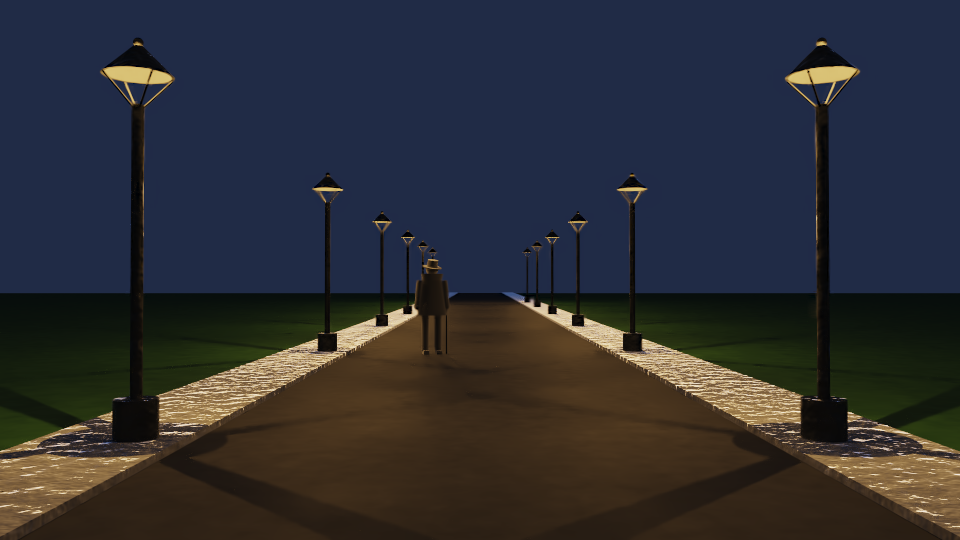
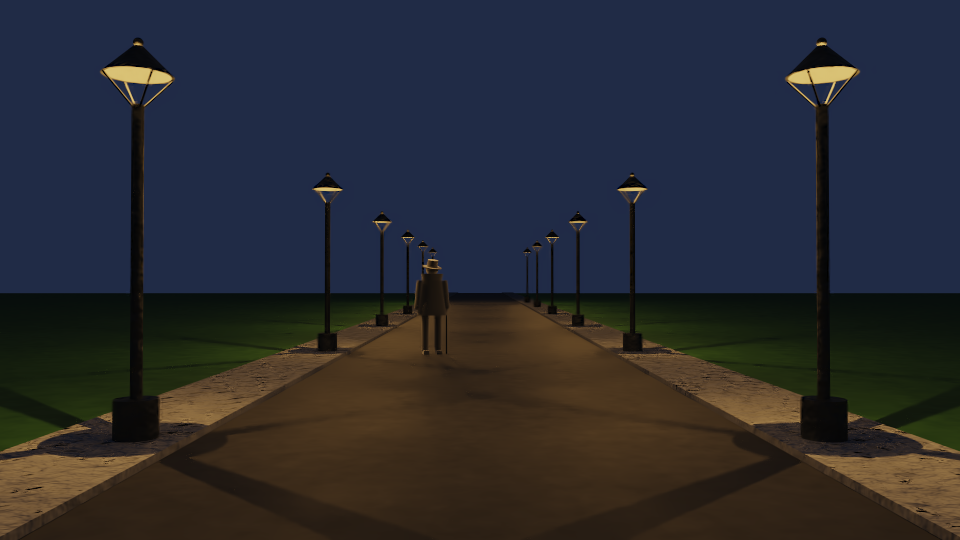
fix(shading): energy-conserving bump/normal mapping at grazing incidence
A perturbed shading normal evaluated against a clamped cosine lets a flat
surface fabricate radiance at grazing incidence (up-tilts add energy, the
down-tilts that should self-shadow clamp to zero), washing asphalt/grass toward
white along the recession.

- Add Conty-Kulla shadow-terminator factor (MathUtils.ShadowTerminatorTerm),
  applied in ComputeDirectLighting on both the light and view directions. It is
  energy-conserving (only removes fabricated energy), deterministic (no extra
  RNG, preserves the capture bit-identical invariant) and the identity where the
  normal is unperturbed (map-free scenes unchanged).
- Capture the unperturbed world-space normal as HitRecord.ShadingNg before the
  normal/bump/autobump passes; it is the geometric reference for the factor.
- Bound the bump perturbation tilt in BumpMapTexture so a high-frequency height
  field cannot drive the normal onto the tangent plane (aliased glitter).
- Add BumpTerminatorRegressionTests; full suite green (590).

https://claude.ai/code/session_01PyNndFcW9ALDMua3vctynV

diff --git a/src/RayTracer.Tests/BumpTerminatorRegressionTests.cs b/src/RayTracer.Tests/BumpTerminatorRegressionTests.cs
@@ -1,0 +1,190 @@
+using System.Numerics;
+using RayTracer.Core;
+using RayTracer.Core.Sampling;
+using RayTracer.Geometry;
+using RayTracer.Lights;
+using RayTracer.Materials;
+using RayTracer.Rendering;
+using RayTracer.Textures;
+using Xunit;
+
+namespace RayTracer.Tests;
+
+/// <summary>
+/// Guard-rail tests for shading-normal energy conservation under bump/normal
+/// mapping.
+///
+/// A perturbed shading normal evaluated against a clamped cosine lets a flat
+/// surface fabricate radiance at grazing incidence — the bump's up-tilts add
+/// energy while the down-tilts that should occlude get clamped to zero, so the
+/// surface washes toward white where it should stay dark. The renderer cures
+/// this with a Conty-Kulla shadow-terminator factor applied on both the light
+/// and view directions, and the bump generator bounds the perturbation tilt.
+///
+/// These tests pin down both mechanisms: a grazing render of a strongly bumped
+/// flat plane must not exceed the un-bumped baseline (the factor only removes
+/// fabricated energy, it never adds), the terminator factor obeys its limits,
+/// and the bump tilt stays within the clamp.
+/// </summary>
+public class BumpTerminatorRegressionTests
+{
+    private const int Width  = 48;
+    private const int Height = 48;
+    private const int Spp    = 16;
+
+    /// <summary>
+    /// A flat plane viewed almost edge-on under a bright overhead light. With a
+    /// strong procedural bump the mean radiance must stay at or below the
+    /// un-bumped baseline — the shadow-terminator factor culls the energy a
+    /// perturbed normal would otherwise fabricate at grazing incidence.
+    /// </summary>
+    [Fact]
+    public void GrazingBump_DoesNotFabricateEnergy()
+    {
+        float bumped   = RenderGrazingPlaneMeanLuminance(withBump: true);
+        float baseline = RenderGrazingPlaneMeanLuminance(withBump: false);
+
+        // The plane must still render (not collapse to black).
+        Assert.True(baseline > 0.01f,
+            $"Baseline plane rendered nearly black (mean {baseline:F4}); the setup is degenerate.");
+
+        // The bump may only redistribute / remove energy at grazing, never add
+        // it. A small numerical margin absorbs sampler noise. The pre-fix code
+        // would blow the bumped mean to several times the baseline here.
+        Assert.True(bumped <= baseline * 1.25f,
+            $"Bumped grazing mean luminance {bumped:F4} exceeds baseline {baseline:F4} × 1.25. " +
+            $"A perturbed shading normal is fabricating energy at grazing incidence — " +
+            $"the shadow-terminator softening may have regressed.");
+    }
+
+    private static float RenderGrazingPlaneMeanLuminance(bool withBump)
+    {
+        var disney = new DisneyBsdf(
+            baseColor: new SolidColor(new Vector3(0.06f, 0.06f, 0.06f)),
+            roughness: new FloatTexture(0.8f),
+            specular:  new FloatTexture(0.5f),
+            specTrans: new FloatTexture(0f),
+            ior:       new FloatTexture(1.5f),
+            clearcoat: new FloatTexture(0f));
+
+        if (withBump)
+        {
+            // High-frequency Perlin field → steep, rapidly varying micro-relief,
+            // the case that fabricated energy at grazing before the fix.
+            disney.BumpMap = new BumpMapTexture(new NoiseTexture(30f), strength: 6f);
+        }
+
+        var plane = new InfinitePlane(
+            new Vector3(0f, 0f, 0f),
+            new Vector3(0f, 1f, 0f),
+            disney);
+        var world = new HittableList(new[] { (IHittable)plane });
+
+        // Bright overhead light, well above the geometric horizon.
+        var light = new PointLight(new Vector3(0f, 2.5f, -8f), Vector3.One, 40f);
+        var lights = new System.Collections.Generic.List<ILight> { light };
+
+        // Camera near the plane height, looking down its length → grazing view.
+        var camera = new RayTracer.Camera.Camera(
+            lookFrom:    new Vector3(0f, 0.35f, 6f),
+            lookAt:      new Vector3(0f, 0.05f, -40f),
+            vUp:         Vector3.UnitY,
+            vFovDeg:     45f,
+            aspectRatio: (float)Width / Height,
+            aperture:    0f,
+            focusDist:   1f);
+
+        Sampler.SetKind(SamplerKind.Prng);
+
+        var renderer = new Renderer(
+            world:           world,
+            camera:          camera,
+            lights:          lights,
+            sky:             new SkySettings(Vector3.Zero),
+            samplesPerPixel: Spp,
+            maxDepth:        4,
+            verbose:         false);
+
+        var pixels = renderer.Render(Width, Height);
+
+        // Average over the lower half of the frame, where the grazing plane is.
+        float sum = 0f; int n = 0;
+        for (int y = Height / 2; y < Height; y++)
+            for (int x = 0; x < Width; x++)
+            {
+                sum += MathUtils.Luminance(pixels[y, x]);
+                n++;
+            }
+        return sum / n;
+    }
+
+    /// <summary>
+    /// The shadow-terminator factor is identity when the shading normal is
+    /// unperturbed — so shading is untouched wherever no map is present.
+    /// </summary>
+    [Fact]
+    public void ShadowTerminator_Unperturbed_IsIdentity()
+    {
+        var n = Vector3.Normalize(new Vector3(0.1f, 1f, 0.2f));
+        var w = Vector3.Normalize(new Vector3(-0.3f, 0.8f, 0.4f));
+        Assert.Equal(1f, MathUtils.ShadowTerminatorTerm(n, n, w), 6);
+    }
+
+    /// <summary>
+    /// A direction below the geometric horizon contributes nothing, even if the
+    /// perturbed normal still faces it.
+    /// </summary>
+    [Fact]
+    public void ShadowTerminator_BelowGeometricHorizon_IsZero()
+    {
+        var ng = Vector3.UnitY;                                  // flat surface
+        var ns = Vector3.Normalize(new Vector3(0.9f, 0.4f, 0f)); // tilted hard sideways
+        var w  = Vector3.Normalize(new Vector3(0.9f, -0.1f, 0f));// just under the horizon
+        Assert.Equal(0f, MathUtils.ShadowTerminatorTerm(ng, ns, w));
+    }
+
+    /// <summary>
+    /// When the perturbed normal faces a grazing direction more than the
+    /// geometry allows, the factor is in (0, 1): the fabricated portion is
+    /// removed but legitimate light is preserved.
+    /// </summary>
+    [Fact]
+    public void ShadowTerminator_GrazingPerturbation_PartiallyCulls()
+    {
+        var ng = Vector3.UnitY;
+        var ns = Vector3.Normalize(new Vector3(0.5f, 0.86f, 0f)); // tilted toward +X
+        var w  = Vector3.Normalize(new Vector3(0.95f, 0.1f, 0f)); // near-grazing on +X
+        float g = MathUtils.ShadowTerminatorTerm(ng, ns, w);
+        Assert.True(g > 0f && g < 1f, $"Expected partial culling in (0,1), got {g}.");
+    }
+
+    /// <summary>
+    /// The bump generator bounds the perturbation tilt: an arbitrarily steep
+    /// height gradient cannot drive the tangent-space normal past the clamp.
+    /// </summary>
+    [Fact]
+    public void BumpMap_TiltIsBounded_UnderExtremeGradient()
+    {
+        // Ramp height field with a huge slope along +X (luminance = 1000·x).
+        var bump = new BumpMapTexture(new RampTexture(1000f), strength: 1f);
+
+        Vector3 nTs = bump.SampleTangentNormal(
+            u: 0f, v: 0f, p: Vector3.Zero,
+            tangent: Vector3.UnitX, bitangent: Vector3.UnitY, seed: 0);
+
+        Assert.True(nTs.Z > 0f, "Tangent-space normal must stay in the upper hemisphere.");
+        float slope = MathF.Sqrt(nTs.X * nTs.X + nTs.Y * nTs.Y) / nTs.Z; // = tan(tilt)
+        // MaxSlope inside BumpMapTexture is 6 (~80.5°); allow a tiny epsilon.
+        Assert.True(slope <= 6f + 1e-3f,
+            $"Bump tilt tan {slope:F3} exceeds the clamp (6). The tilt bound may have regressed.");
+    }
+
+    /// <summary>Grayscale ramp: luminance = <c>k · p.X</c>, an unbounded gradient.</summary>
+    private sealed class RampTexture : ITexture
+    {
+        private readonly float _k;
+        public RampTexture(float k) => _k = k;
+        public Vector3 Value(float u, float v, Vector3 p, int objectSeed)
+            => new Vector3(_k * p.X);
+    }
+}

diff --git a/src/RayTracer/Core/MathUtils.cs b/src/RayTracer/Core/MathUtils.cs
@@ -29,6 +29,38 @@ public static class MathUtils
     public static float RadiansToDegrees(float radians) => radians * 180f / Pi;
 
     /// <summary>
+    /// Shadow-terminator softening factor for perturbed shading normals
+    /// (Conty &amp; Kulla 2019). When a normal/bump map tilts the shading normal
+    /// <paramref name="ns"/> away from the geometric normal <paramref name="ng"/>,
+    /// a direction <paramref name="w"/> can sit above the shading horizon while
+    /// already below the geometric one, letting the clamped cosine fabricate
+    /// energy — surfaces wash out at grazing incidence. This returns a scalar in
+    /// [0, 1] that fades the contribution to zero across that band with a smooth
+    /// cubic, leaving it untouched when <paramref name="w"/> is well inside both
+    /// hemispheres. Identity (1) when the shading normal is unperturbed, so
+    /// shading is unaffected wherever no map is present. Deterministic and
+    /// allocation-free.
+    /// </summary>
+    public static float ShadowTerminatorTerm(Vector3 ng, Vector3 ns, Vector3 w)
+    {
+        float ngDotW = Vector3.Dot(ng, w);
+        if (ngDotW <= 0f) return 0f;            // below the true surface horizon
+
+        float nsDotW = Vector3.Dot(ns, w);
+        if (nsDotW <= 0f) return 0f;            // below the shading horizon (already culled)
+
+        float ngDotNs = Vector3.Dot(ng, ns);
+        if (ngDotNs >= 0.9999f) return 1f;      // unperturbed → no correction
+
+        float g = ngDotW / (nsDotW * MathF.Max(ngDotNs, 1e-4f));
+        if (g >= 1f) return 1f;
+        if (g <= 0f) return 0f;
+
+        float g2 = g * g;
+        return (-g2 * g) + g2 + g;              // smooth cubic ramp, zero-slope at g=1
+    }
+
+    /// <summary>
     /// Uniform [0, 1) draw routed through the active per-pixel sampler.
     /// When the Sobol sampler is installed and a per-pixel-sample
     /// context is open (see <see cref="Sampler"/>), draws are

diff --git a/src/RayTracer/Rendering/Renderer.cs b/src/RayTracer/Rendering/Renderer.cs
@@ -1015,6 +1015,11 @@ public partial class Renderer
     {
         IMaterial? material = rec.Material;
 
+        // Capture the unperturbed (world-space, post-transform, post-interpolation)
+        // shading normal before the normal/bump/autobump passes overwrite it. This
+        // is the geometric reference for shadow-terminator softening below.
+        rec.ShadingNg = rec.Normal;
+
         // ── Normal map perturbation ─────────────────────────────────────────
         if (material?.NormalMap != null && rec.Tangent.LengthSquared() > 0.5f)
         {
@@ -1892,6 +1897,13 @@ public partial class Renderer
     {
         Vector3 result = Vector3.Zero;
 
+        // View-side shadow-terminator factor: when a normal/bump map has tilted
+        // the shading normal toward the eye, the grazing-view Fresnel of the BSDF
+        // (e.g. Disney's diffuse retro-reflection) fabricates energy. This culls
+        // it symmetrically with the light-side factor applied per sample below.
+        // Unity (no-op) wherever the shading normal is unperturbed.
+        float viewTerm = MathUtils.ShadowTerminatorTerm(rec.ShadingNg, rec.Normal, viewDir);
+
         if (_lightDist != null)
         {
             // ── Single-light picking (power or uniform) ──────────────────────
@@ -1918,6 +1930,12 @@ public partial class Renderer
 
                 Vector3 brdf = material?.EvaluateDirect(dirToLight, viewDir, rec.Normal, rec)
                                ?? new Vector3(MathF.Max(Vector3.Dot(rec.Normal, dirToLight), 0f) / MathF.PI);
+
+                // Shadow-terminator softening on both the light and the view
+                // directions: cull the energy a perturbed shading normal would
+                // fabricate where either grazes below the true surface horizon
+                // (no-op where the normal is unperturbed).
+                brdf *= viewTerm * MathUtils.ShadowTerminatorTerm(rec.ShadingNg, rec.Normal, dirToLight);
 
                 // The contribution is wNee · lightColor · brdf · Tr. When the
                 // BRDF integrand is zero (light below the shading hemisphere,
@@ -1971,6 +1989,12 @@ public partial class Renderer
 
                     Vector3 brdf = material?.EvaluateDirect(dirToLight, viewDir, rec.Normal, rec)
                                    ?? new Vector3(MathF.Max(Vector3.Dot(rec.Normal, dirToLight), 0f) / MathF.PI);
+
+                    // Shadow-terminator softening on both the light and the view
+                    // directions: cull the energy a perturbed shading normal would
+                    // fabricate where either grazes below the true surface horizon
+                    // (no-op where the normal is unperturbed).
+                    brdf *= viewTerm * MathUtils.ShadowTerminatorTerm(rec.ShadingNg, rec.Normal, dirToLight);
 
                     // Zero integrand (light below the hemisphere / delta lobe) →
                     // the sample contributes nothing; skip the medium walk and

diff --git a/src/RayTracer/Textures/BumpMapTexture.cs b/src/RayTracer/Textures/BumpMapTexture.cs
@@ -44,6 +44,12 @@ public sealed class BumpMapTexture : IBumpMap
     // the inner texture belongs to the separate texture-filtering roadmap.
     private const float Delta = 1e-3f;
 
+    // Maximum tangent of the tilt the perturbed normal may take off the surface
+    // normal (tan ≈ 6 → ~80.5°). Bounds the worst-case slope from steep height
+    // fields so the bump stays a conditioned micro-relief rather than aliasing
+    // onto the tangent plane.
+    private const float MaxSlope = 6f;
+
     /// <param name="height">Inner height-field texture (luminance is read).</param>
     /// <param name="strength">
     ///   Perturbation amplitude. Clamped to [0, 10] — bump gradients are
@@ -92,6 +98,20 @@ public sealed class BumpMapTexture : IBumpMap
         float dhdv = (hVp - hVm) / (2f * Delta);
 
         Vector3 nTs = new(-_strength * dhdu, -_strength * dhdv, 1f);
+
+        // Bound the tilt off the surface normal. The raw slope magnitude
+        // sqrt(x²+y²) = tan(tilt) scales with the inner texture's gradient, so
+        // high-frequency height fields can drive the perturbed normal almost
+        // onto the tangent plane, producing aliased glitter at grazing angles.
+        // Capping the tilt keeps the perturbation a well-conditioned micro-relief.
+        float slope = MathF.Sqrt(nTs.X * nTs.X + nTs.Y * nTs.Y);
+        if (slope > MaxSlope)
+        {
+            float k = MaxSlope / slope;
+            nTs.X *= k;
+            nTs.Y *= k;
+        }
+
         return Vector3.Normalize(nTs);
     }
 }

diff --git a/src/RayTracer/Core/HitRecord.cs b/src/RayTracer/Core/HitRecord.cs
@@ -11,6 +11,17 @@ public struct HitRecord
     public Vector3 Point;
     public Vector3 LocalPoint;
     public Vector3 Normal;
+
+    /// <summary>
+    /// Unperturbed shading normal in world space — the smooth/interpolated
+    /// surface normal as it stands BEFORE any normal-map, bump-map or autobump
+    /// perturbation. Stamped by the renderer at the start of shading; the
+    /// perturbation passes overwrite <see cref="Normal"/> but leave this intact.
+    /// Used as the geometric reference Nₘ for shadow-terminator softening, which
+    /// removes the energy a perturbed normal would otherwise fabricate where the
+    /// light falls below the true surface horizon.
+    /// </summary>
+    public Vector3 ShadingNg;
     public float T;
     public float U;
     public float V;

diff --git a/DEVLOG.md b/DEVLOG.md
@@ -1749,3 +1749,35 @@ density, glossy LOD smoothing, e copertura aggiuntiva).
 ### ✅ CLI — preset `--quality` / `-q`
 
 Aggiunto un flag CLI che impacchetta in un colpo i cinque knob di qualità (`-w -H -s -d -S`) in preset con nome. Dieci preset: `draft-tiny` / `draft-small` / `draft` (480×270 · 960×540 · 1920×1080, `-s 16 -d 4 -S 1`), `medium-tiny` / `medium-small` / `medium` (`-s 128 -d 6 -S 1`), `final-tiny` / `final-small` / `final` (`-s 1024 -d 8 -S 4`), `ultra` (3840×2160, stessi sampling dei final). Qualunque flag esplicito ha la precedenza sul preset, quindi `-q final -d 16` resta possibile per scene con vetri impilati. Implementato come tipo nested `Program.QualityPreset`, parser case-insensitive, errore esplicito su valori sconosciuti. Documentazione: `docs/reference/rendering-profiles.md` + `profili-di-rendering.md` §1a, tutorial cap. 02 (EN/IT), `README.md` Quick Start + tabella CLI + sezione esempi pratici.
+
+### ✅ Bump/normal mapping — conservazione dell'energia a incidenza radente
+
+Una normale di shading perturbata (normal/bump map) valutata contro un coseno
+clampato (`max(N·L,0)`) fa fabbricare radianza a una superficie piatta vista
+quasi di taglio: le micro-normali inclinate verso la luce/occhio aggiungono
+energia, mentre quelle che dovrebbero auto-ombreggiarsi vengono azzerate dal
+clamp. Il risultato è un fondo (asfalto, prato) che "sbianca" lungo la fuga,
+ben oltre quanto l'albedo giustifichi.
+
+Soluzione implementata (livello Arnold/Cycles):
+
+- **Fattore di shadow-terminator (Conty–Kulla 2019)** in `MathUtils.ShadowTerminatorTerm`,
+  applicato in `ComputeDirectLighting` sia sulla direzione di luce sia su quella
+  di vista (formulazione simmetrica, energy-conserving: può solo togliere
+  l'energia fabbricata, mai aggiungerla). Deterministico e senza estrazioni RNG
+  aggiuntive, quindi l'invariante bit-identico di `RenderCaptureTests` resta
+  valido; è l'identità (×1.0) dove la normale non è perturbata, quindi le scene
+  senza mappe sono invariate.
+- **Normale geometrica `HitRecord.ShadingNg`**: la normale di shading non
+  perturbata (world space, post-transform, post-interpolazione) viene catturata
+  in `ShadeSurface` prima dei pass di normal/bump/autobump e usata come
+  riferimento dal fattore sopra.
+- **Clamp del tilt** in `BumpMapTexture` (`MaxSlope = tan ≈ 80.5°`): la pendenza
+  generata dal gradiente del campo d'altezza è proporzionale alla frequenza
+  della texture, quindi un height-field ad alta frequenza poteva spingere la
+  normale quasi sul piano tangente generando glitter aliasato; il clamp la
+  mantiene una micro-rilievo ben condizionata.
+
+Test: nuovo `BumpTerminatorRegressionTests` (render radente di un piano con bump
+forte che non deve superare la baseline senza bump + unit test del fattore e del
+clamp del tilt). Suite totale verde.